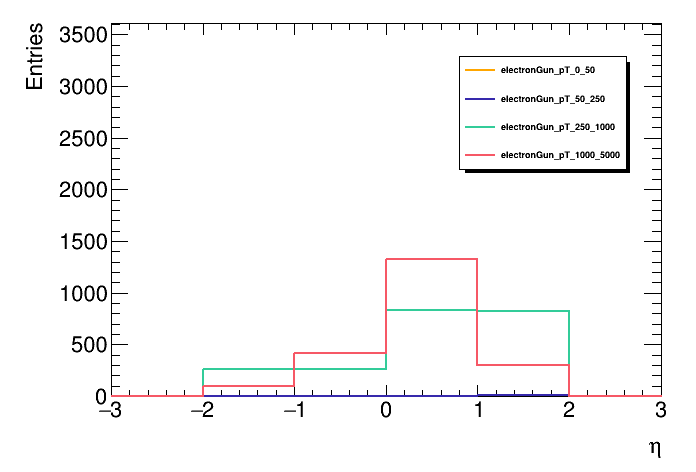
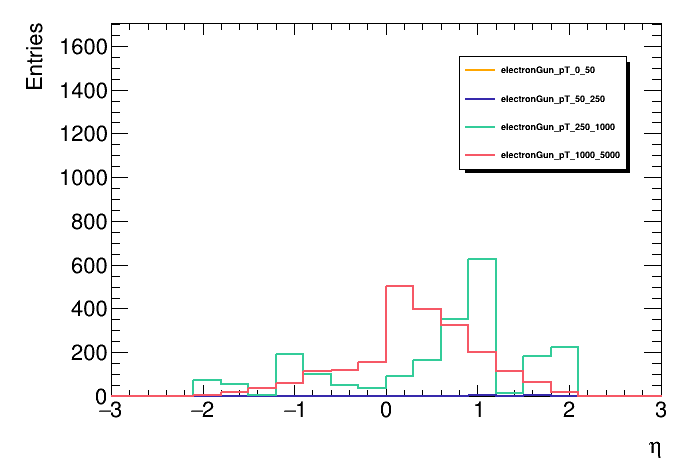
changed binning for efficency plots

diff --git a/plotHelper.py b/plotHelper.py
@@ -7,7 +7,8 @@ variables = {"obj": {}, "evt": {}}
 variables["obj"]["pt"] =  {"nbins": 30, "xmin": 0,     "xmax": 3000,    "accessor": ".Perp()",  "label": "p_{T} [GeV]"}
 variables["obj"]["eta"] = {"nbins": 20, "xmin": -3,    "xmax": 3,       "accessor": ".Eta()",   "label": "#eta"}
 variables["obj"]["phi"] = {"nbins": 20, "xmin": -3.5,  "xmax": 3.5,     "accessor": ".Phi()",   "label": "#phi"}
-variables["obj"]["eff_eta"] = {"nbins": 6, "xmin": -3, "xmax": 3, "accessor": ".Eta()", "label": "#eta"}
+variables["obj"]["eff_eta"] = {"nbins": 20, "xmin": -3, "xmax": 3, "accessor": ".Eta()", "label": "#eta"}
+#variables["obj"]["eff_eta"] = {"nbins": 6, "xmin": -3, "xmax": 3, "accessor": ".Eta()", "label": "#eta"}
 variables["evt"]["n"] =   {"nbins": 20, "xmin": 0,     "xmax": 20,      "accessor": "",         "label": "number per event"}
 
 colors =        [ROOT.TColor.GetColor("#FFA900"),   # Sunny Orange

diff --git a/electronStudies.py b/electronStudies.py
@@ -171,11 +171,11 @@ for s in files:
                 py = clus_E * clus_pos[1] / magnitude
                 pz = clus_E * clus_pos[2] / magnitude
                 clus_tlv = ROOT.TLorentzVector(px, py, pz, clus_E)
-                fillObjHists(hists[s], "clus", clus_tlv)      ## for all clustering plots
+                fillObjHists(hists[s], "clus", clus_tlv)      ## for all cluster plots
                 if isMatched(clus_tlv, my_mcp_el):   ## for matching clusters and mc electrons
                     fillObjHists(hists[s], "clus_el_match", my_mcp_el)
                     hists[s]["clus_el_match_eff_eta"].Fill(abs(my_mcp_el.Eta()))
-
+ 
 
 
             ######## Loop over PFOs
